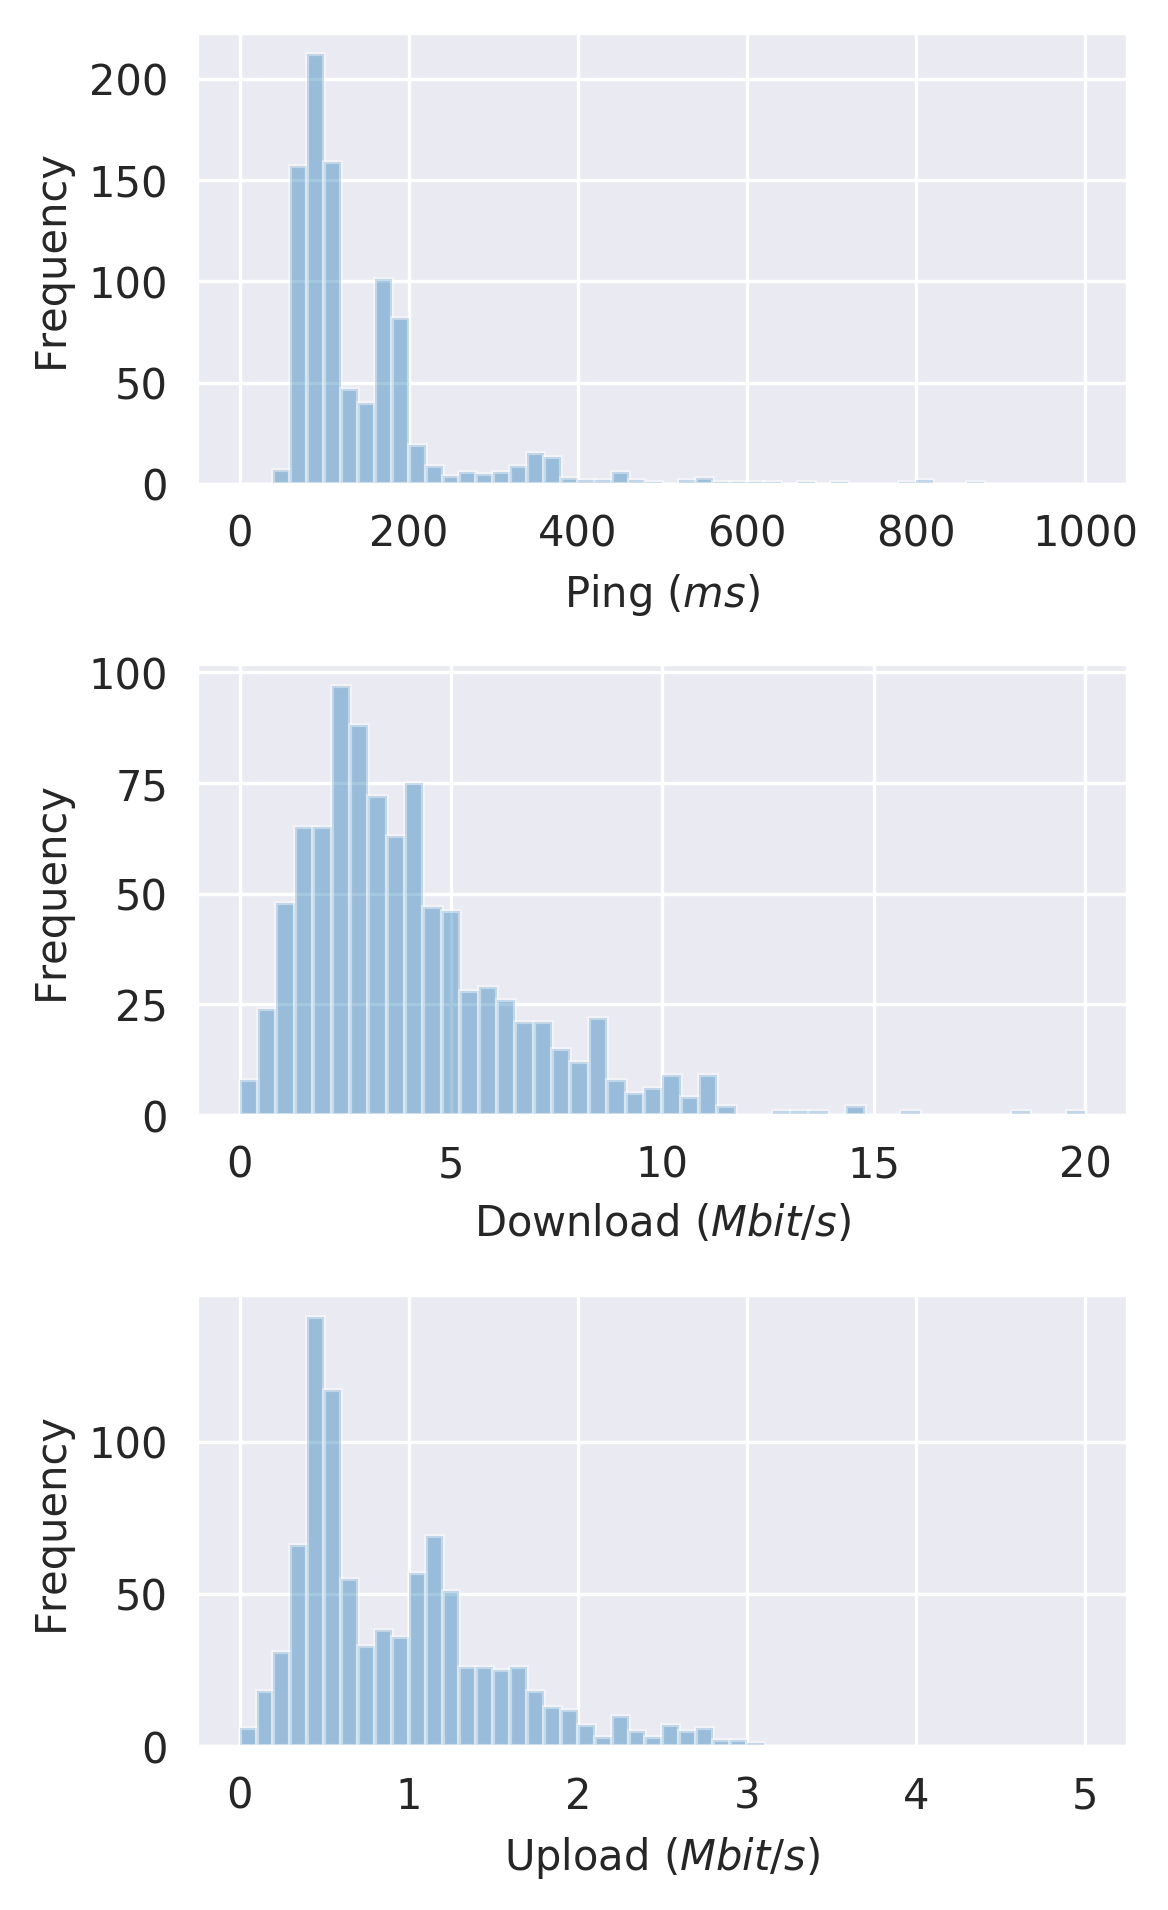
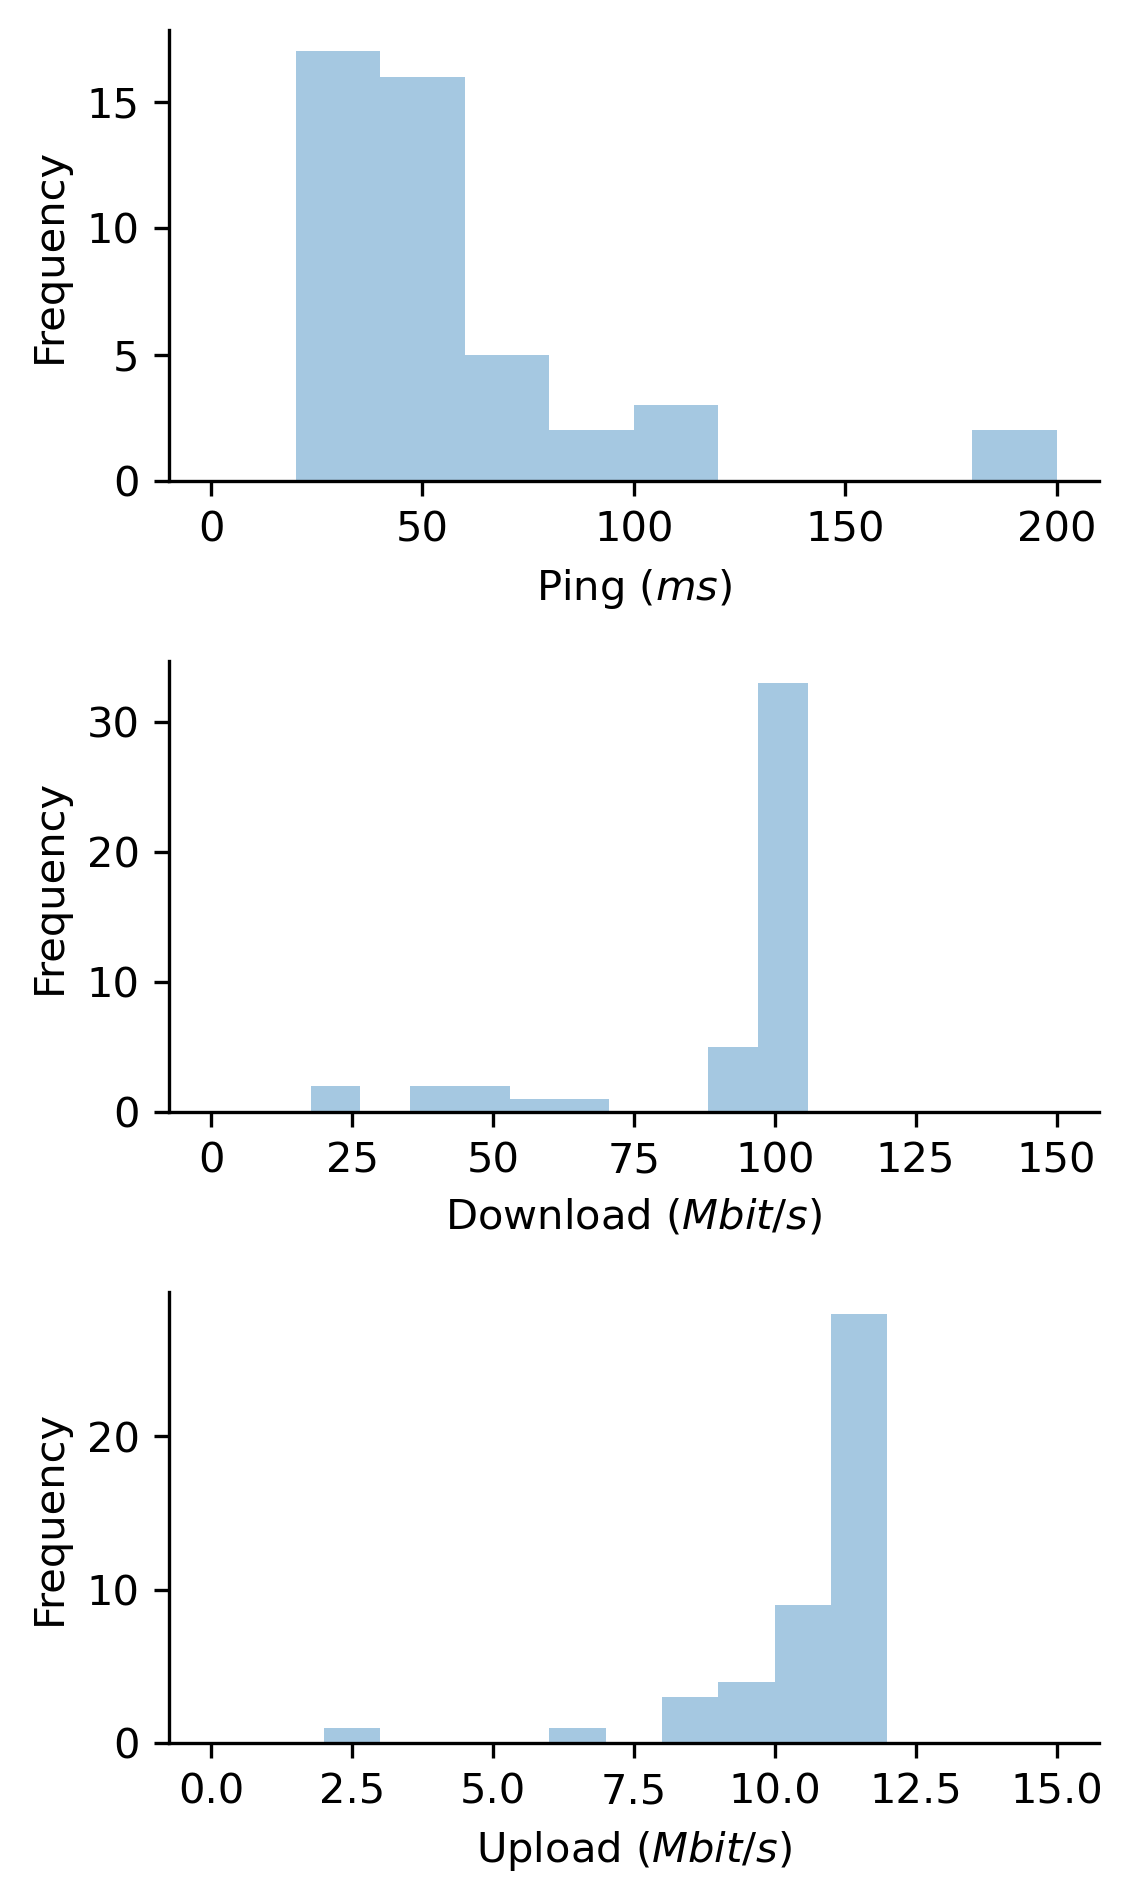
fedora

diff --git a/plot_speeds.py b/plot_speeds.py
@@ -11,7 +11,7 @@ import pandas as pd
 import matplotlib.pyplot as plt
 import matplotlib.dates as mdates
 import seaborn as sns
-sns.set_style('darkgrid')
+#sns.set_style('darkgrid')
 import datetime
 
 def read_speedLog(log_in):
@@ -35,6 +35,7 @@ def read_speedLog(log_in):
         logf['Time'][i] = logf['Time'][i].replace('[', '')
         logf['Time'][i]= logf['Time'][i].replace(']', '')
         logf['Time'][i]= logf['Time'][i].replace(' BST', '')
+        logf['Time'][i]= logf['Time'][i].replace(' CEST', '')
         logf['Time'][i]= logf['Time'][i].replace(' GMT', '')
         logf['Time'][i]= datetime.datetime.strptime(logf['Time'][i], '%a %d %b %H:%M:%S %Y')
 
@@ -53,6 +54,7 @@ def read_speedLog(log_in):
         logf['Upload'][i] = logf['Upload'][i].replace(' Mbit/s', '')
         logf['Upload'][i] = logf['Upload'][i].replace(' Mbit/', '')  # catch lines of different length...
         logf['Upload'][i] = logf['Upload'][i].replace(' Mbit', '')  # catch lines of different length...
+        logf['Upload'][i] = logf['Upload'][i].replace(' Mbi', '')  # catch lines of different length...
         logf['Upload'][i] = float(logf['Upload'][i])
         
     # Remove the 'rest' column
@@ -66,9 +68,9 @@ def plot_hist(logP):
 
     fig, ax = plt.subplots(3, 1)
 
-    sns.distplot(logP['Ping'], kde=False, hist_kws={"range": [0,1000]}, ax=ax[0])
-    sns.distplot(logP['Download'], kde=False, hist_kws={"range": [0,20]}, ax=ax[1])
-    sns.distplot(logP['Upload'], kde=False, hist_kws={"range": [0,5]}, ax=ax[2])
+    sns.distplot(logP['Ping'], kde=False, hist_kws={"range": [0,200]}, ax=ax[0])
+    sns.distplot(logP['Download'], kde=False, hist_kws={"range": [0,150]}, ax=ax[1])
+    sns.distplot(logP['Upload'], kde=False, hist_kws={"range": [0,15]}, ax=ax[2])
 
     ax[0].set_ylabel(r'Frequency')
     ax[1].set_ylabel(r'Frequency')
@@ -77,6 +79,7 @@ def plot_hist(logP):
     ax[1].set_xlabel(r'Download ($Mbit/s$)')
     ax[2].set_xlabel(r'Upload ($Mbit/s$)')
 
+    sns.despine(fig)
     fig.set_size_inches(4, (4 / 1.618) * 3)
     fig.subplots_adjust(hspace=0.4)
     fig.savefig('speed_histogram.png', pad_inches=0.1, bbox_inches='tight', dpi=300)
@@ -119,16 +122,17 @@ def plot_time(logP):
     ax[0].set_xlabel(r'Hour of day')
     ax[1].set_xlabel(r'Hour of day')
     ax[2].set_xlabel(r'Hour of day')
-    ax[0].set_ylim(-10,400)
-    ax[1].set_ylim(-0.5,15)
-    ax[2].set_ylim(-0.1,3)
+    #ax[0].set_ylim(-10,400)
+    #ax[1].set_ylim(-0.5,15)
+    #ax[2].set_ylim(-0.1,3)
 
+    sns.despine(fig)
     fig.set_size_inches(4, (4 / 1.618) * 3)
     fig.subplots_adjust(hspace=0.4)
     fig.savefig('speed_v_time.png', pad_inches=0.1, bbox_inches='tight', dpi=300)
 
 if __name__ == "__main__":
     logf = read_speedLog('speedtest.log')
-    # plot_hist(logf)
+    plot_hist(logf)
     plot_time(logf)
 
